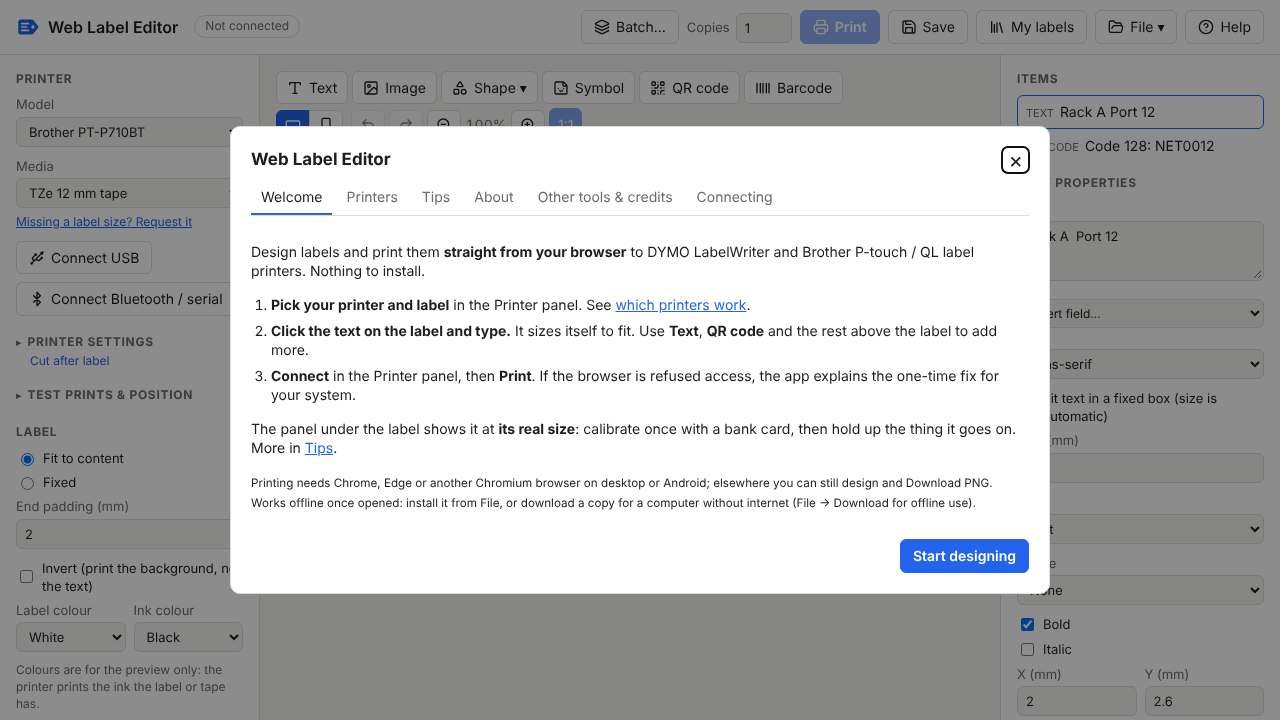
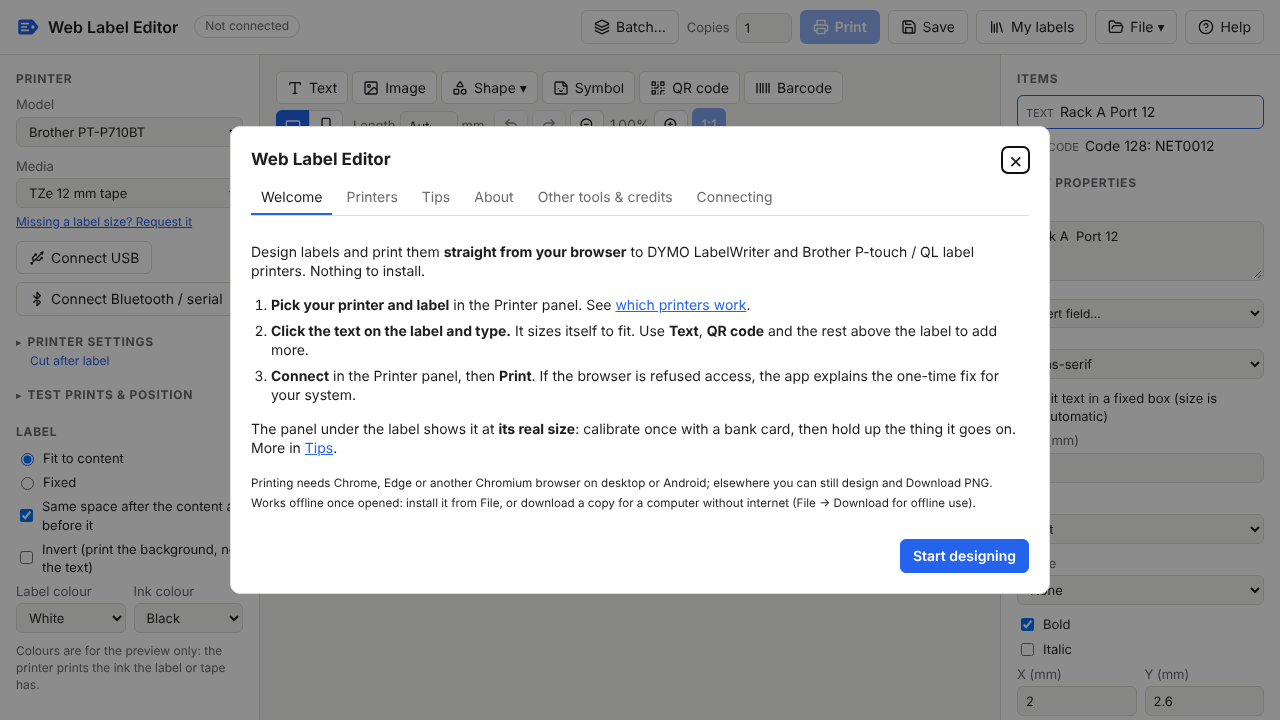
Label length: a Length box in the toolbar, a draggable end, even ends
On rolls and tape, the toolbar's Length box shows Auto or a length in
mm, like the text size box; typing a number fixes the length. The
label's far end has a grip to drag it longer or shorter, as in P-touch
Editor. Fit to content now leaves the same space after the content as
before it, unless a space is set.

Claude-Session: https://claude.ai/code/session_01YQFkThD3TEfZZoGyfdA6sY

Changed region(s): [[0.0, 0.7028, 0.1875, 0.9778], [0.5312, 0.1528, 0.5938, 0.1833], [0.4062, 0.1528, 0.4688, 0.1833]]

diff --git a/src/app.js b/src/app.js
@@ -39,7 +39,7 @@ function newDesign() {
     printer: 'dymo-lw450',
     medium: '30252',
     options: {},
-    length: { mode: 'auto', mm: 60, padMm: 2 },
+    length: { mode: 'auto', mm: 60, padMm: 2, even: true },
     invert: false,
     items: [
       {
@@ -662,10 +662,31 @@ function draw() {
       ctx.fillRect(h.x, h.y, h.size, h.size);
     }
   }
+  // The far end of a label on a roll, to drag (see lengthGripAt).
+  if (!med.lengthDots) {
+    const [gx, gy, gw, gh] = last.portrait ? [cssW / 2 - 16, cssH - 4, 32, 8] : [cssW - 4, cssH / 2 - 16, 8, 32];
+    ctx.fillStyle = 'rgba(255, 255, 255, .9)';
+    ctx.beginPath();
+    ctx.roundRect(gx - 1.5, gy - 1.5, gw + 3, gh + 3, 5);
+    ctx.fill();
+    ctx.fillStyle = drag?.length ? (getComputedStyle(document.documentElement).getPropertyValue('--accent').trim() || '#2463eb') : 'rgba(90, 90, 90, .8)';
+    ctx.beginPath();
+    ctx.roundRect(gx, gy, gw, gh, 4);
+    ctx.fill();
+  }
   drawRulers(selBounds, feed);
   placeLaneButtons(scale);
 
   const lenMm = geo.length / dpmm;
+  // The Length box in the toolbar (rolls only): Auto, or the fixed length.
+  const lenBox = $('len-box');
+  $('len-quick').hidden = !!med.lengthDots;
+  if (document.activeElement !== lenBox) {
+    lenBox.value = design.length.mode === 'fixed' ? String(design.length.mm) : 'Auto';
+    lenBox.title = design.length.mode === 'fixed'
+      ? 'Label length in mm. Auto makes it as long as the content. You can also drag the label\'s end.'
+      : `Auto: as long as the content (now ${lenMm.toFixed(0)} mm). Type a length to fix it, or drag the label's end.`;
+  }
   const lanes = med.lanes;
   const stock = m.family === 'brother-pt' ? 'tape' : med.continuous ? 'roll' : 'label';
   let tape = med.band ? `${med.tapeMm} mm ${stock}, ${(med.band.h / dpmm).toFixed(1)} mm printable` : `${acrossMm().toFixed(1)} mm wide`;
@@ -1167,7 +1188,9 @@ function buildSetup() {
   // Only the setting that applies: a length when fixed, padding when it fits the content.
   $('len-mm').closest('label').hidden = design.length.mode !== 'fixed';
   $('pad-mm').value = design.length.padMm;
-  $('pad-mm').closest('label').hidden = design.length.mode !== 'auto';
+  $('len-even').checked = design.length.even !== false;
+  $('even-ends').hidden = design.length.mode !== 'auto';
+  $('pad-mm').closest('label').hidden = design.length.mode !== 'auto' || design.length.even !== false;
   $('invert').checked = !!design.invert;
   const reported = tapeReported();
   const fixed = reported ? null : rollColors();
@@ -3237,6 +3260,19 @@ function labelOrigin(item) {
   return s ? { x: s.ox / last.dpmm, y: s.oy / last.dpmm } : { x: 0, y: 0 };
 }
 
+// On a roll, the label's far end (right, or bottom in portrait) can be
+// dragged to make it longer or shorter, as in P-touch Editor: the length
+// becomes Fixed. True when the pointer is on that edge.
+function lengthGripAt(e) {
+  if (!last || medium().lengthDots) return false;
+  const pt = canvasPointToMm(e);
+  const { width, height } = last.display;
+  const [along, across, end, size] = last.portrait
+    ? [pt.y, pt.x, height / last.dpmm, width / last.dpmm]
+    : [pt.x, pt.y, width / last.dpmm, height / last.dpmm];
+  return Math.abs(along - end) * zoom <= 6 && across >= 0 && across <= size;
+}
+
 let drag = null;
 function onPointerDown(e) {
   const pt = canvasPointToMm(e);
@@ -3244,6 +3280,12 @@ function onPointerDown(e) {
   if (handled) {
     undo.checkpoint();
     drag = { item: handled, resize: true };
+    $('canvas').setPointerCapture(e.pointerId);
+    return;
+  }
+  if (lengthGripAt(e)) {
+    undo.checkpoint();
+    drag = { length: true };
     $('canvas').setPointerCapture(e.pointerId);
     return;
   }
@@ -3264,10 +3306,19 @@ function onPointerDown(e) {
 function onPointerMove(e) {
   const canvas = $('canvas');
   if (!drag) {
-    canvas.style.cursor = onHandle(e) ? 'nwse-resize' : hitTest(canvasPointToMm(e)) ? 'move' : 'default';
+    canvas.style.cursor = onHandle(e) ? 'nwse-resize' : lengthGripAt(e) ? (last.portrait ? 'ns-resize' : 'ew-resize')
+      : hitTest(canvasPointToMm(e)) ? 'move' : 'default';
     return;
   }
   const pt = canvasPointToMm(e);
+  if (drag.length) {
+    const mm = Math.max(5, Math.round(last.portrait ? pt.y : pt.x));
+    if (design.length.mode !== 'fixed' || design.length.mm !== mm) {
+      design.length = { ...design.length, mode: 'fixed', mm };
+      refresh({ setup: true });
+    }
+    return;
+  }
   const it = drag.item;
   if (drag.resize) {
     const o = labelOrigin(it);
@@ -3305,6 +3356,11 @@ function onPointerMove(e) {
 // place, as in DYMO Label; the first click selects it.
 function onPointerUp() {
   if (!drag) return;
+  if (drag.length) {
+    drag = null;
+    refresh();
+    return;
+  }
   const { item, wasSelected, moved, resize } = drag;
   drag = null;
   refresh({ props: true });
@@ -3662,6 +3718,16 @@ function wire() {
   });
   $('len-mm').oninput = (e) => { design.length.mm = parseFloat(e.target.value) || 5; refresh(); };
   $('pad-mm').oninput = (e) => { design.length.padMm = parseFloat(e.target.value) || 0; refresh(); };
+  $('len-box').onfocus = (e) => e.target.select();
+  $('len-box').onchange = (e) => {
+    const v = e.target.value;
+    if (/^\s*a/i.test(v)) design.length.mode = 'auto';
+    else if (parseFloat(v.replace(',', '.')) > 0) design.length = { ...design.length, mode: 'fixed', mm: Math.max(5, round1(parseFloat(v.replace(',', '.')))) };
+    e.target.blur();
+    undo.checkpoint();
+    refresh({ setup: true });
+  };
+  $('len-even').onchange = (e) => { design.length.even = e.target.checked; refresh({ setup: true }); };
   $('invert').onchange = (e) => { design.invert = e.target.checked; refresh(); };
   $('label-color').onchange = (e) => { design.colors = { ...design.colors, label: e.target.value }; undo.checkpoint(); refresh(); };
   $('ink-color').onchange = (e) => { design.colors = { ...design.colors, ink: e.target.value }; undo.checkpoint(); refresh(); };

diff --git a/index.html b/index.html
@@ -85,7 +85,8 @@
         <label class="inline"><input type="radio" name="lenmode" value="auto"> Fit to content</label>
         <label class="inline"><input type="radio" name="lenmode" value="fixed"> Fixed</label>
         <label>Length (mm) <input id="len-mm" type="number" min="5" step="1"></label>
-        <label>End padding (mm) <input id="pad-mm" type="number" min="0" step="0.5"></label>
+        <label class="inline" id="even-ends"><input id="len-even" type="checkbox"> Same space after the content as before it</label>
+        <label>Space after the content (mm) <input id="pad-mm" type="number" min="0" step="0.5"></label>
       </div>
       <label class="inline"><input id="invert" type="checkbox"> Invert (print the background, not the text)</label>
       <div class="grid2" title="Labels and tapes come in colours, some clear, some with coloured ink. The printer prints in the ink the label or tape has: this only changes the preview.">
@@ -119,6 +120,8 @@
           <button class="icon" data-orient="landscape" title="Landscape: the label lying along the feed" aria-label="Landscape" data-icon="landscape"></button>
           <button class="icon" data-orient="portrait" title="Portrait: the label standing upright" aria-label="Portrait" data-icon="portrait"></button>
         </span>
+        <label id="len-quick" class="len-quick">Length <input id="len-box" type="text" inputmode="decimal" list="len-sizes" aria-label="Label length (mm), or Auto to fit the content"> mm</label>
+        <datalist id="len-sizes"><option value="Auto"><option value="25"><option value="40"><option value="50"><option value="75"><option value="100"><option value="150"></datalist>
         <button id="undo" class="icon" aria-label="Undo" title="Undo (Ctrl+Z)" data-icon="undo"></button>
         <button id="redo" class="icon" aria-label="Redo" title="Redo (Ctrl+Shift+Z)" data-icon="redo"></button>
         <button id="zoom-out" class="icon" aria-label="Zoom out" title="Zoom out" data-icon="zoomOut"></button>

diff --git a/src/render.js b/src/render.js
@@ -372,20 +372,23 @@ function drawBox(ctx, item, dpmm) {
   ctx.fillRect(x + w - t, y, t, h);
 }
 
-// Length of the strip in dots: fixed for die-cut media, otherwise either the
-// user's fixed length or the furthest item edge plus padding.
 // The label's length along the feed, in dots: fixed, or (fit to content)
-// up to the furthest item: its right edge, or its bottom edge in portrait.
+// up to the furthest item (its right edge, or its bottom edge in portrait)
+// and then as much space again as before the first one, or `padMm`.
 export function stripLength(design, medium, dpi, ctx, items = design.items, portrait = false) {
   const dpmm = dpi / 25.4;
   if (medium.lengthDots) return medium.lengthDots;
   if (design.length.mode === 'fixed') return Math.max(1, Math.round(design.length.mm * dpmm));
   let right = 0;
+  let left = Infinity;
   for (const item of items) {
     const b = itemBounds(ctx, item, dpmm);
     right = Math.max(right, portrait ? b.y + b.h : b.x + b.w);
+    left = Math.min(left, portrait ? b.y : b.x);
   }
-  return Math.max(Math.round(5 * dpmm), Math.round(right + design.length.padMm * dpmm));
+  // The space after the content: the same as before it (even ends), or set.
+  const pad = design.length.even !== false && Number.isFinite(left) ? Math.max(0, left) : design.length.padMm * dpmm;
+  return Math.max(Math.round(5 * dpmm), Math.round(right + pad));
 }
 
 // Renders one label. opts.items: the items to draw (default all);

diff --git a/src/about.js b/src/about.js
@@ -145,6 +145,8 @@ function tips() {
       li(b('Two labels per row'), ' (e.g. DYMO 30333): the preview shows the whole row. Choose the same design on '
         + 'all, a different design on each (click a label to add to it, drag items between them), or one at a time. '
         + 'The 🔓 Edit separately button on the dimmed copy unlinks it, starting from a copy of label 1.'),
+      li(b('Length'), ' (toolbar, on rolls and tape): Auto makes the label as long as its content, with the same space at '
+        + 'both ends; type a length, or drag the label\'s right end, to fix it.'),
       li(b('Rulers'), ' measure from the label\'s starting edge and from each label\'s top, and mark the selected item.')),
     el('h3', { textContent: 'Batches: data, numbers and dates' }),
     el('ul', {},

diff --git a/style.css b/style.css
@@ -419,3 +419,5 @@ a.button { display: inline-block; text-decoration: none; }
 .data-bar tr:hover td { background: rgba(36, 99, 235, .06); cursor: pointer; }
 .with-picker .field-picker { margin-top: 4px; font-size: 12px; }
 #color-note { font-size: 12px; color: var(--muted); margin: 0 0 8px; }
+.len-quick { display: inline-flex; align-items: center; gap: 4px; font-size: 13px; color: var(--muted); margin: 0 6px; }
+.len-quick input { width: 58px; }

diff --git a/README.md b/README.md
@@ -251,8 +251,10 @@ The app has its own welcome page and **Help** with the same information.
   tape has, so this only changes how the preview looks.
 - **Changing the label keeps the design on it:** if it no longer fits the
   new label or tape, it is shrunk evenly to fit (undo brings it back).
-- **Continuous rolls:** *Fit to content* makes the label as long as what is on
-  it; *Fixed* sets a length. Die-cut labels use their own size.
+- **Label length on rolls and tape:** the *Length* box in the toolbar says
+  *Auto* (as long as what is on it, with the same space after the content as
+  before it) or a length in mm; type one, or drag the label's end as in
+  P-touch Editor. Die-cut labels use their own size.
 - **Portrait** (▭ ▯ in the toolbar):
   design the label standing upright, as in DYMO Label; it is turned for
   printing. On tape and continuous rolls the label grows downwards with the
